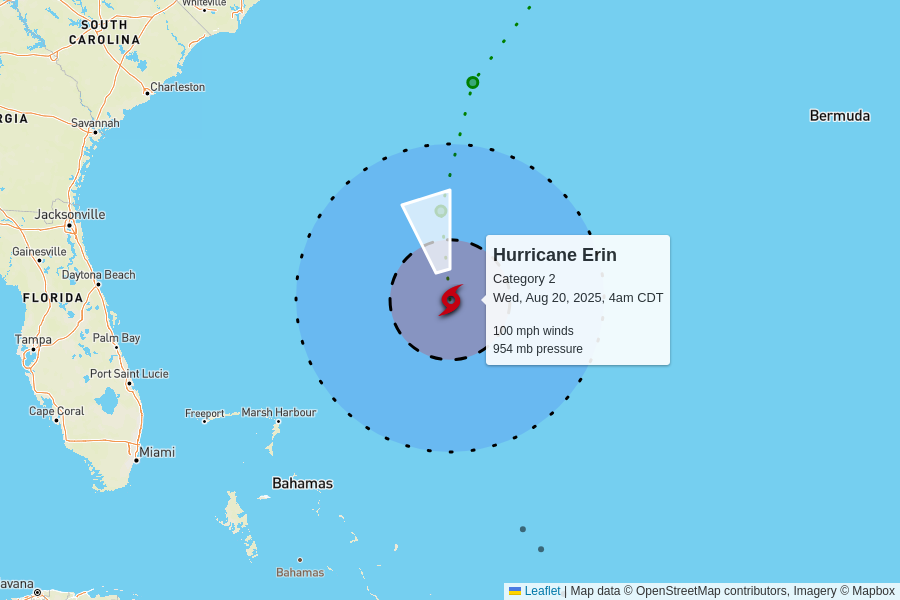
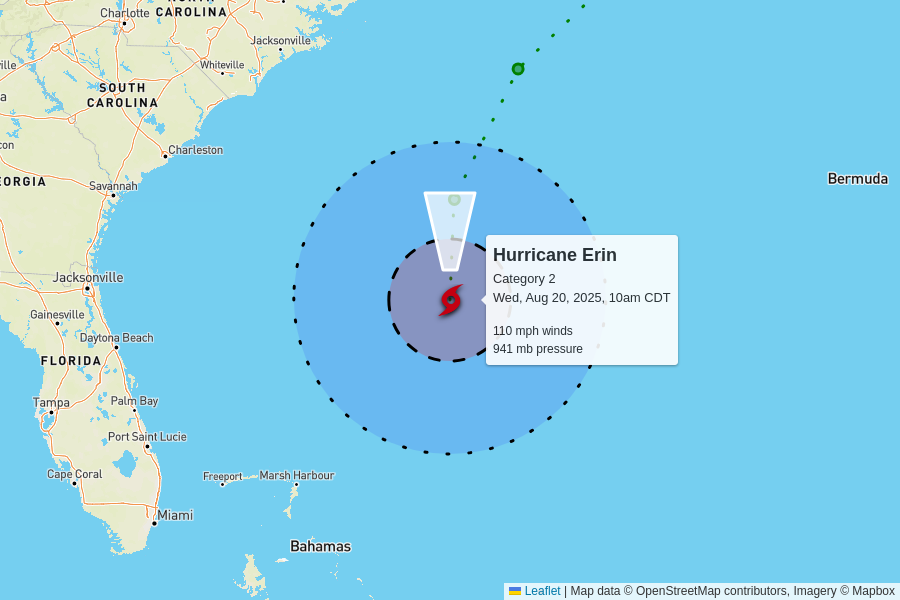
automatic update

diff --git a/docs/index.html b/docs/index.html
@@ -102,7 +102,7 @@
         <td colspan="6" class="storm category-2" >
           <h2>
             Hurricane Erin - Category 2
-            <p class="updated">last updated <span data-time>2025-08-20T09:00:00.000Z</span></p>
+            <p class="updated">last updated <span data-time>2025-08-20T15:00:00.000Z</span></p>
           </h2>
         </td>
       </tr>
@@ -117,12 +117,12 @@
       </tr>
       <tr>
         <td class="spacer"></td>
-        <td>100 mph<br>0 mph since last update</td>
-        <td>954 mb<br>-5 mb since last update</td>
+        <td>110 mph<br>+10 mph since last update</td>
+        <td>941 mb<br>-13 mb since last update</td>
         <td>
-          13 mph to the north-northwest
+          13 mph to the north
           <br/>
-          <span style="display: inline-block; font-size: 1.5em; transform: rotate(345deg);">↑</span>
+          <span style="display: inline-block; font-size: 1.5em; transform: rotate(360deg);">↑</span>
         </td>
         <td><a href="https://raw.githubusercontent.com/mgwalker/atlantic-hurricanes/main/data/csv/AL052025.csv">AL052025.csv</a></td>
         <td><a href="https://www.nhc.noaa.gov/archive/2025/ERIN.shtml?">NHC advisories</a></td>
